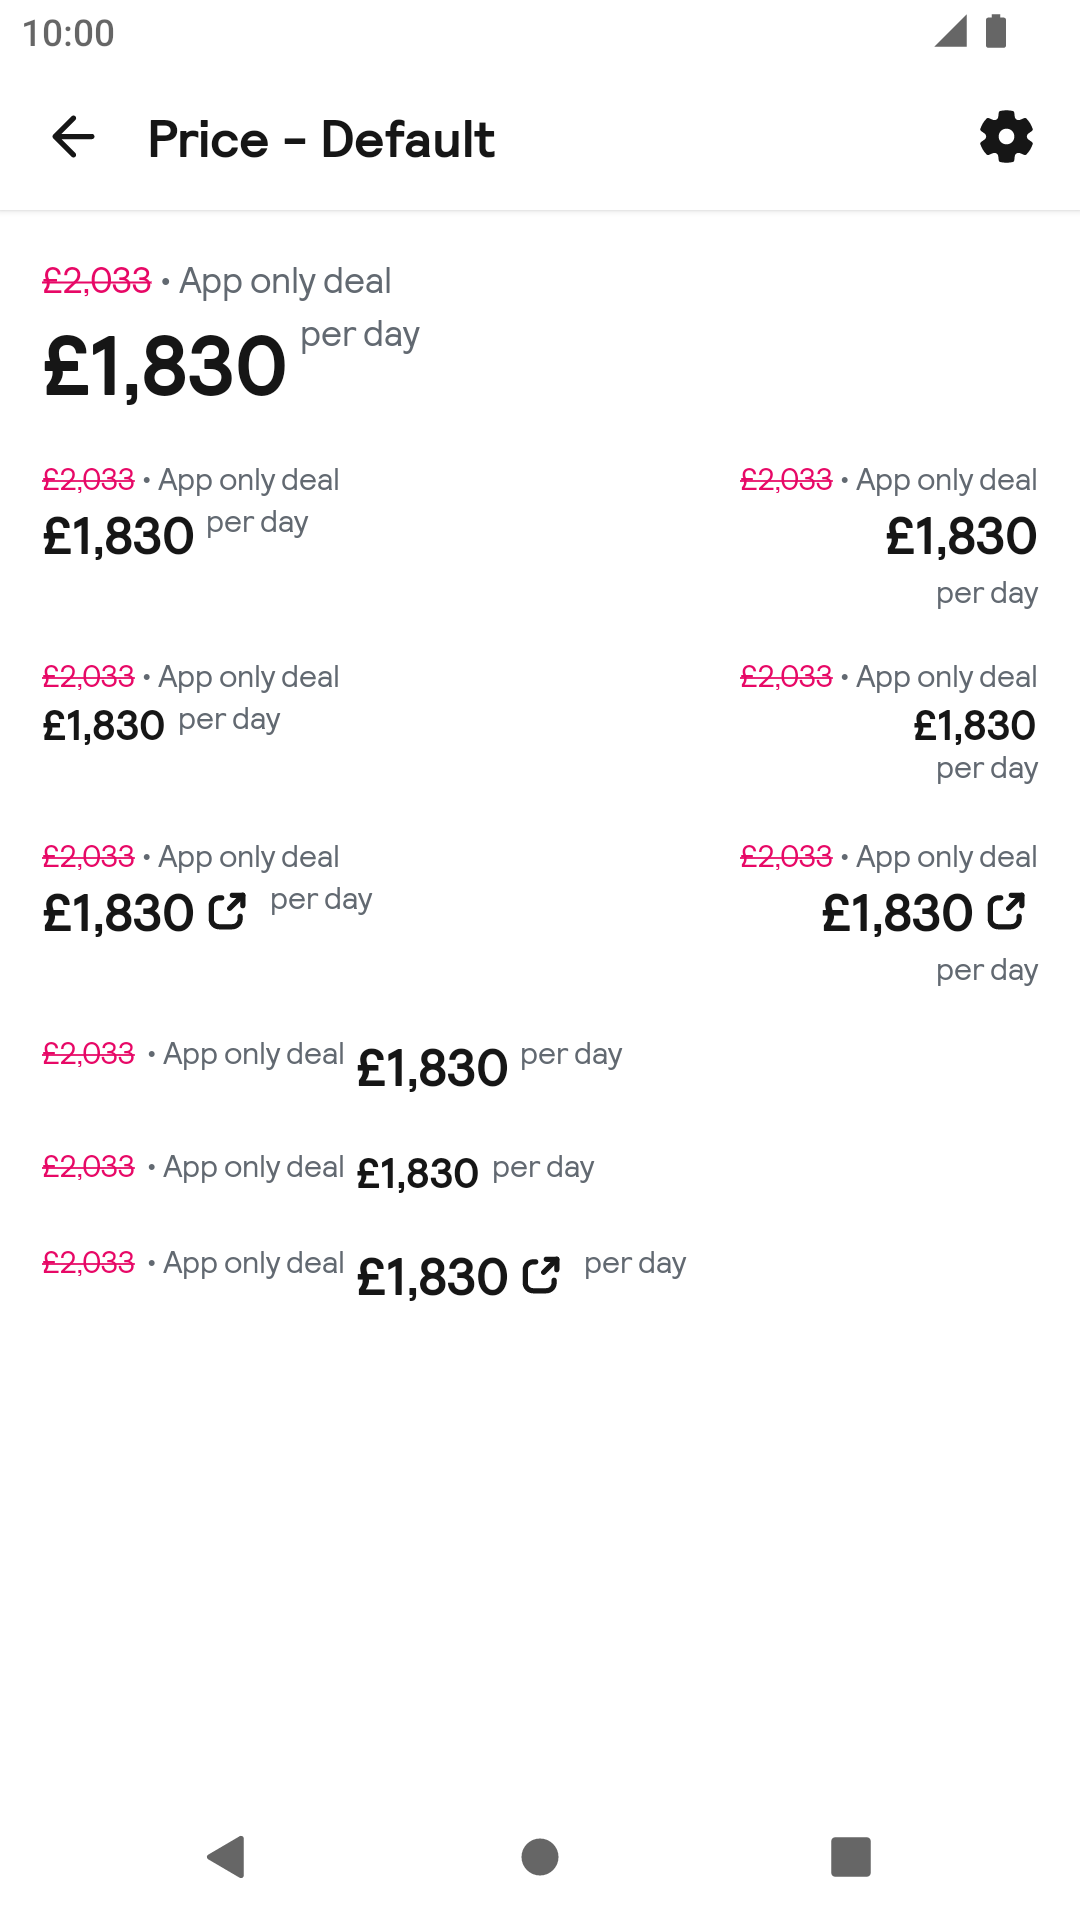
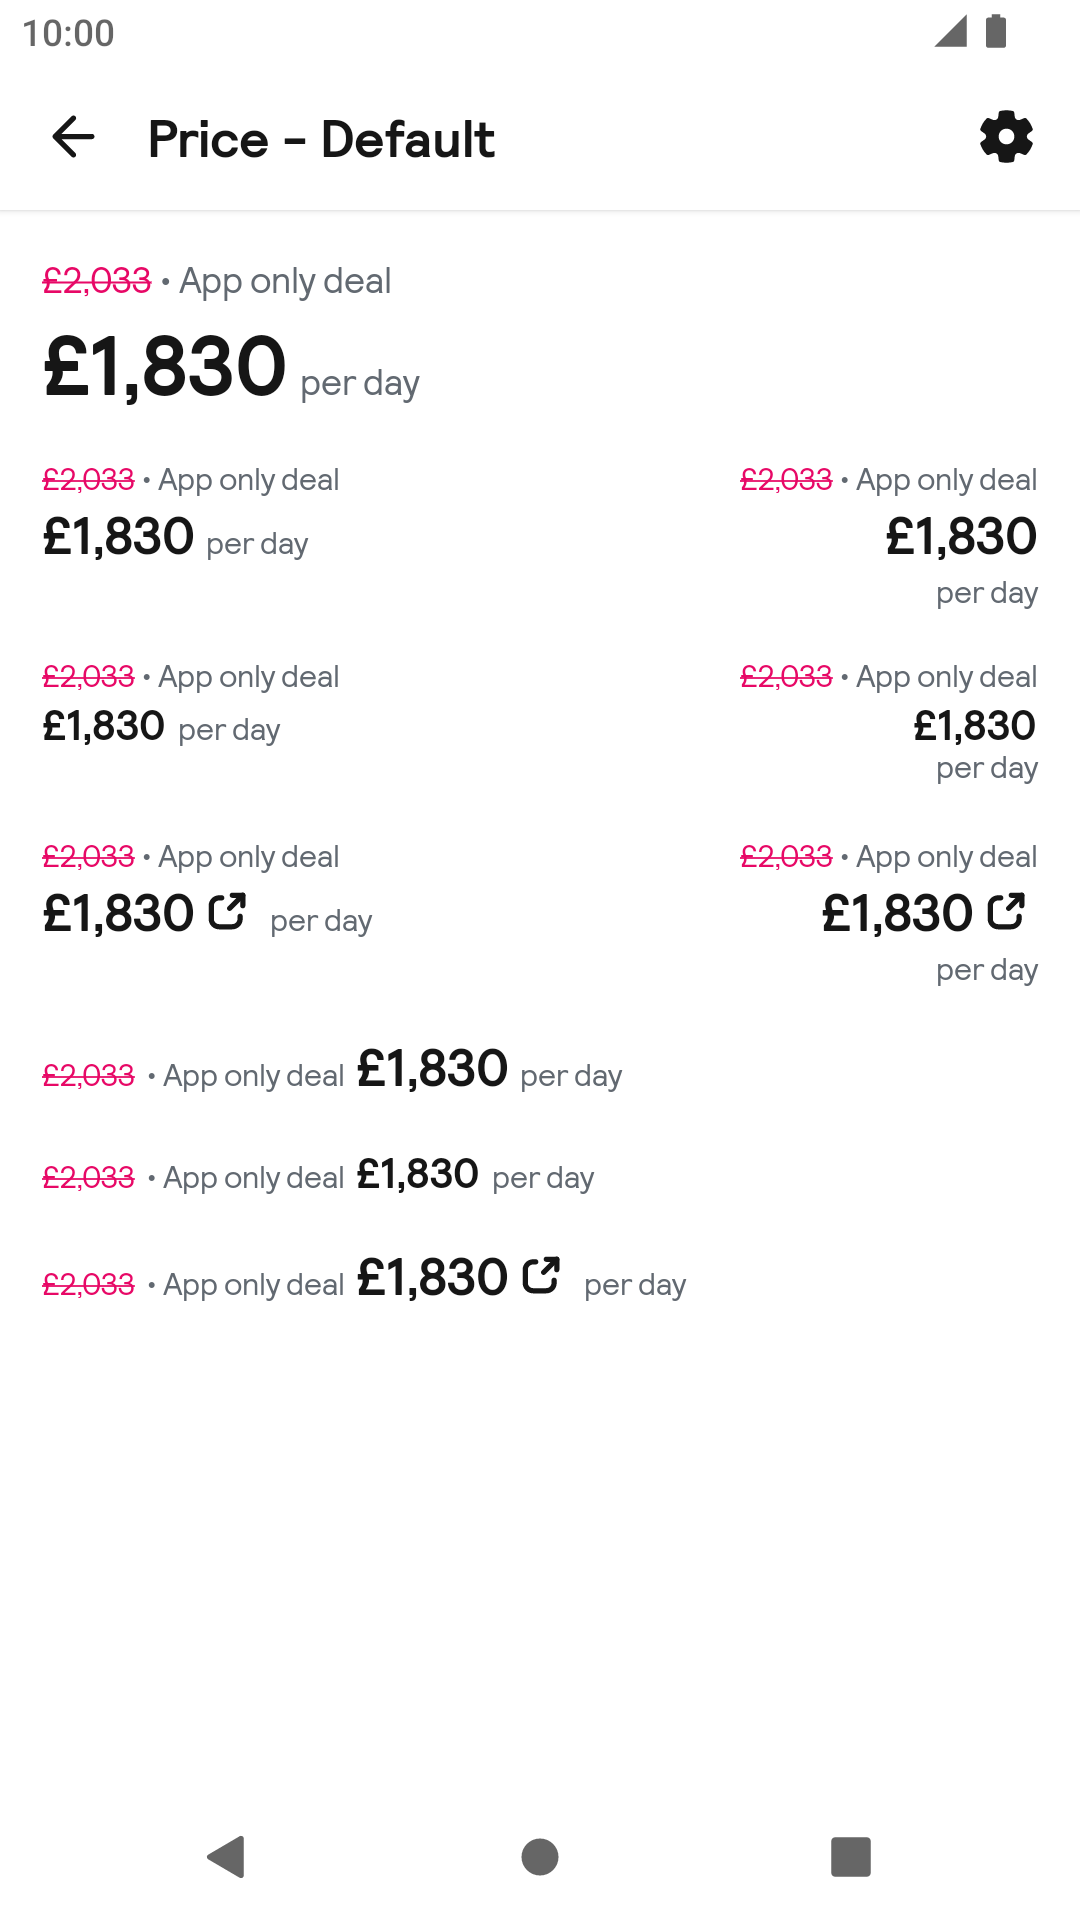
Update the price component layout.

diff --git a/backpack-compose/src/main/kotlin/net/skyscanner/backpack/compose/price/internal/BpkPriceAlignStart.kt b/backpack-compose/src/main/kotlin/net/skyscanner/backpack/compose/price/internal/BpkPriceAlignStart.kt
@@ -65,9 +65,8 @@ internal fun BpkPriceAlignStart(
             }
         }
         Row(verticalAlignment = Alignment.Bottom) {
-            Row(verticalAlignment = Alignment.CenterVertically) {
+            Row(verticalAlignment = Alignment.CenterVertically, modifier = Modifier.alignByBaseline()) {
                 BpkText(
-                    modifier = Modifier.alignByBaseline(),
                     text = price,
                     color = BpkTheme.colors.textPrimary,
                     style = size.mainTextStyle(),

diff --git a/backpack-compose/src/main/kotlin/net/skyscanner/backpack/compose/price/internal/BpkPriceRow.kt b/backpack-compose/src/main/kotlin/net/skyscanner/backpack/compose/price/internal/BpkPriceRow.kt
@@ -66,9 +66,8 @@ internal fun BpkPriceRow(
                 style = size.secondaryTextStyle(),
             )
         }
-        Row(verticalAlignment = Alignment.CenterVertically) {
+        Row(verticalAlignment = Alignment.CenterVertically, modifier = Modifier.alignByBaseline()) {
             BpkText(
-                modifier = Modifier.alignByBaseline(),
                 text = price,
                 color = BpkTheme.colors.textPrimary,
                 style = size.mainTextStyle(),
